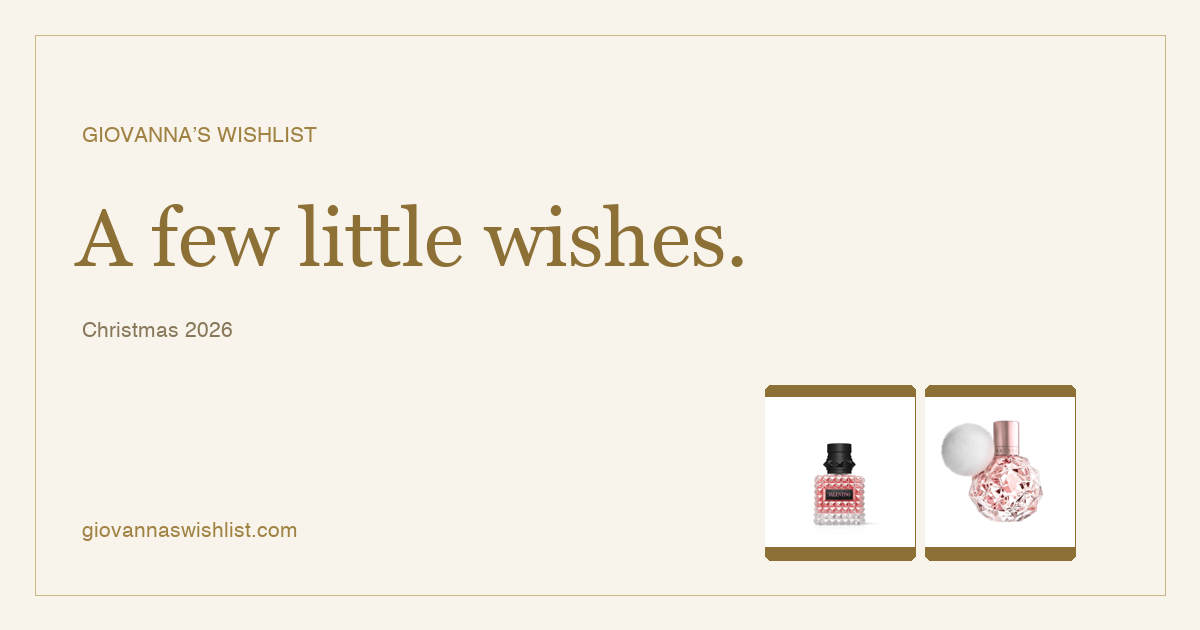
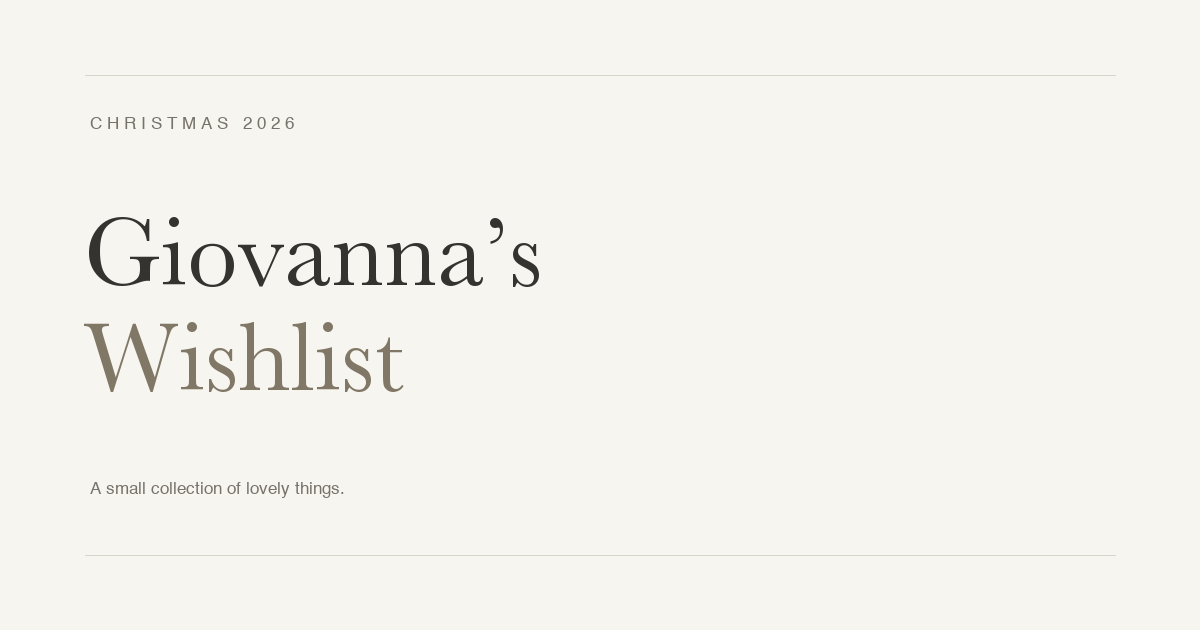
Refine wishlist with understated ivory and stone design

diff --git a/style.css b/style.css
@@ -1,18 +1,1 @@
-*{box-sizing:border-box}html{scroll-behavior:smooth;scroll-padding-top:24px}body{margin:0;background:#10271f;color:#f6eee5;font-family:Arial,Helvetica,sans-serif;-webkit-font-smoothing:antialiased}a{color:inherit}a:focus-visible,button:focus-visible,summary:focus-visible{outline:2px solid #e2c39d;outline-offset:4px}[hidden]{display:none!important}.skip{position:absolute;top:-80px;left:16px;background:#ead7b9;color:#10271f;padding:12px;z-index:99}.skip:focus{top:12px}header{max-width:1280px;margin:auto;padding:23px 5%;display:flex;align-items:center;justify-content:space-between;border-bottom:1px solid #dfc9b328}.wordmark{text-decoration:none;font:italic 32px Georgia,serif}.wordmark span{font-size:12px;color:#d6b795;margin-left:4px}.header-note,.eyebrow,.gift-count{font-size:10px;letter-spacing:2px}.header-note{color:#bac6b9}.nav-link{font-size:12px;text-decoration:none;color:#e2c39d}.hero{text-align:center;padding:50px 20px 45px;position:relative;overflow:hidden;background:radial-gradient(ellipse at 50% 0,#38543b30,transparent 70%)}.eyebrow{color:#d6b795;text-transform:uppercase;line-height:1.7;margin:0 0 16px}h1{font:normal clamp(46px,6vw,74px)/1.04 Georgia,serif;letter-spacing:-2px;margin:0}h1 em{font-weight:400;color:#dfcb99}.intro{font-size:14px;line-height:1.7;color:#c2cbbb;margin:23px 0 0}.hero-link{display:inline-flex;gap:30px;margin-top:22px;font-size:12px;text-decoration:none;border-bottom:1px solid #d6b79570;padding-bottom:11px;color:#e2c39d}.hero-flower{position:absolute;right:12%;top:30%;font:80px Georgia;color:#dfcb9919;transform:rotate(15deg)}#wishlist{max-width:1160px;margin:auto;padding:12px 28px 0}.section-head{display:flex;justify-content:space-between;align-items:end;margin-bottom:25px;border-top:1px solid #dfc9b328;padding-top:26px}.section-head .eyebrow{margin-bottom:7px;font-size:9px}h2{font:30px Georgia,serif;margin:0}.gift-count{color:#c2cbbb;font-size:10px;letter-spacing:1px}.gift-count span{color:#d6b795;margin-left:12px}.cards{display:grid;grid-template-columns:repeat(3,minmax(0,1fr));gap:22px}.card{background:#f5efe6;color:#293b30;border:1px solid #e3d6c8;border-radius:5px;overflow:hidden;display:flex;flex-direction:column}.art{height:265px;position:relative;display:flex;align-items:center;justify-content:center;border-bottom:1px solid #d8cabe;background:#f5efe6;padding:20px}.art img{width:100%;height:100%;object-fit:contain;mix-blend-mode:multiply}.number{position:absolute;top:17px;left:17px;font:12px Georgia;color:#877451}.body{padding:25px 24px;display:flex;flex-direction:column;flex:1}.body .eyebrow{color:#796744;font-size:9px;letter-spacing:1.7px;margin-bottom:10px}h3{font:26px/1.15 Georgia,serif;margin:0 0 10px}.variant{font-size:11px;color:#717663;line-height:1.6;margin:0 0 14px}.description{font-size:12px;line-height:1.8;color:#5e695b;margin:0 0 22px}.pricing{margin-top:auto}.pricing strong{font:26px Georgia,serif;color:#705e3c}.links{margin-top:20px}.links a{display:flex;justify-content:space-between;text-decoration:none;font-size:11px;border:1px solid #94786a70;padding:14px;border-radius:2px;transition:background .2s}.links a:hover{background:#294332;color:#f5efe6}.price-note{font-size:10px;line-height:1.7;color:#afbea9;margin:20px 0 0}footer{text-align:center;padding:36px 20px 28px}footer p{font:15px Georgia,serif;color:#d4dccb}footer>span{font-size:8px;letter-spacing:2px;color:#a9b69e}#empty-state{padding:35px 20px;border:1px solid #dfc9b340;text-align:center;font-size:14px}/* Quiet, integrated filter toolbar. */
-.filters{position:relative;border:1px solid #b8c4af2e;border-radius:10px;background:#183126;margin:0 0 28px;padding:16px 18px;box-shadow:none}
-.category-filters{gap:5px;margin:0 0 15px;display:flex;flex-wrap:wrap}
-.filter-chip{border:0;border-radius:5px;color:#c2cbbb;background:transparent;min-height:38px;padding:10px 14px;font-size:12px;letter-spacing:.1px;transition:background .15s,color .15s}
-.filter-chip:hover{background:#ffffff0b;color:#f0ebdf}
-.filter-chip.selected{background:#eee7d7;color:#294332;border:0;box-shadow:0 1px 3px #0001}
-.budget-row{border-top:1px solid #b8c4af22;padding-top:13px;justify-content:space-between;gap:12px}
-.price-control{display:flex;align-items:center;gap:12px}.price-label{font-size:11px;color:#b8c4af;letter-spacing:.4px}
-.price-menu{position:relative}.price-menu summary{display:flex;align-items:center;justify-content:space-between;gap:28px;min-width:140px;min-height:38px;padding:10px 12px;list-style:none;cursor:pointer;border:1px solid #b8c4af47;border-radius:5px;font-size:12px;color:#eee7d7;background:#10271f55}
-.price-menu summary::-webkit-details-marker{display:none}.price-menu summary:hover{border-color:#d5c4a188}.price-menu summary:focus-visible{outline:2px solid #dfcb99;outline-offset:3px}.price-menu[open] summary svg{transform:rotate(180deg)}
-.price-options{position:absolute;top:calc(100% + 7px);left:0;z-index:20;min-width:180px;padding:6px;border:1px solid #ded7c6;border-radius:7px;background:#f4efe5;box-shadow:0 12px 28px #0004;display:grid;gap:2px}
-.price-options button{font:12px Arial,sans-serif;display:block;width:100%;padding:11px 12px;text-align:left;cursor:pointer;background:transparent;border:0;border-radius:4px;color:#294332;min-height:38px}.price-options button:hover,.price-options button:focus-visible{background:#dfe4d6;outline:none}.price-options button[aria-pressed="true"]{background:#dfe4d6;color:#294332;font-weight:600}
-.filter-meta{display:flex;align-items:center;gap:14px}#filter-count{margin:0;font-size:11px;color:#b8c4af;white-space:nowrap}#reset-filters{min-height:34px;padding:4px 0;font-size:11px;color:#dfcb99;text-decoration:none;border-bottom:1px solid #dfcb9944;border-radius:0}
-@media(max-width:580px){.filters{padding:12px;margin-bottom:20px}.category-filters{gap:4px;margin-bottom:12px}.filter-chip{padding:9px 11px;font-size:11px;min-height:37px}.budget-row{padding-top:11px;gap:8px;flex-wrap:nowrap}.price-control{gap:8px}.price-label{font-size:10px}.price-menu summary{min-width:123px;gap:16px}.filter-meta{gap:9px}#filter-count{flex-basis:auto;margin:0;font-size:10px}}
-
-
-.budget-row{flex-wrap:wrap;gap:16px}.filter-meta{margin-left:auto}.sort-menu summary{min-width:160px}.sort-menu .price-options{min-width:195px}button{font-family:inherit}@media(max-width:800px){.cards{gap:16px}.body{padding:20px 18px}.art{height:220px}h3{font-size:23px}}@media(max-width:640px){header{padding:20px 22px}.header-note{display:none}.hero{padding:36px 20px 32px}h1{font-size:52px}.hero-flower{right:3%;font-size:55px}#wishlist{padding:8px 18px 0}.cards{grid-template-columns:1fr;gap:20px}.card{display:flex}.art{height:260px;padding:24px}.body{padding:24px}.budget-row{gap:12px}.price-control{gap:8px}.filter-meta{width:100%;margin-left:0;justify-content:space-between}.sort-menu summary{min-width:140px}h3{font-size:27px}.section-head{padding-top:22px}.gift-count{font-size:9px}.price-note{font-size:10px}.price-options{max-width:calc(100vw - 56px)}.sort-menu .price-options{left:auto;right:0}}@media(max-width:360px){.price-control{flex-wrap:wrap;gap:5px}.budget-row{align-items:start}.price-menu summary{min-width:120px}.sort-menu summary{min-width:130px}}@media(prefers-reduced-motion:reduce){html{scroll-behavior:auto}*{transition:none!important}}/* Giovanna’s chosen palette: cream and gold. */
-body{background:#f8f4eb;color:#403729}header{border-color:#b99b5b44}.wordmark{color:#8b6e33}.wordmark span,.nav-link,.eyebrow,.hero-link{color:#92743a}.header-note{color:#8c806c}.hero{background:radial-gradient(ellipse at 50% 0,#e9d8af35,transparent 70%)}h1 em{color:#a08243}.intro{color:#807361}.hero-link{border-color:#ac8f5266}.hero-flower{color:#ad8b3f1a}.section-head{border-color:#b99b5b44}.gift-count{color:#8c806c}.gift-count span{color:#a08243}.card{background:#fffdf7;border-color:#d8c9a944;color:#403729}.art{background:#fffdf7;border-color:#b99b5b33}.number{color:#a38c61}.body .eyebrow{color:#99804d}.variant{color:#8e8069}.description{color:#7a705f}.pricing strong{color:#8d7036}.links a{border-color:#b69a624d;color:#725d35}.links a:hover{background:#a08243;color:#fffdf7}.price-note{color:#948873}footer p{color:#88785b}footer>span{color:#a19174}.filters{background:#f0e9da;border-color:#c7b58d55}.filter-chip{color:#89795b}.filter-chip:hover{background:#e8dcc2;color:#66532c}.filter-chip.selected{background:#a08243;color:#fffdf7}.budget-row{border-color:#bba57533}.price-label{color:#8e7c5b}.price-menu summary{color:#6e5c39;border-color:#baa16f55;background:#fffdf780}.price-menu summary:hover{border-color:#a08243}.price-options{background:#fffdf7;border-color:#d9c9a8;box-shadow:0 12px 28px #5e47211c}.price-options button{color:#6e5c39}.price-options button:hover,.price-options button:focus-visible,.price-options button[aria-pressed="true"]{background:#eee4ce;color:#6e5c39}#filter-count{color:#8e7c5b}#reset-filters{color:#8d7036;border-color:#aa8c4d55}#empty-state{border-color:#b99b5b44;color:#807361}.skip{background:#a08243;color:#fffdf7}a:focus-visible,button:focus-visible,summary:focus-visible,.price-menu summary:focus-visible{outline-color:#967839}
+:root{--paper:#f7f5f0;--ink:#35332f;--muted:#77726a;--line:#d9d4ca;--accent:#8b8171;--serif:'Baskerville','Iowan Old Style','Palatino Linotype',Georgia,serif}*{box-sizing:border-box}html{scroll-behavior:smooth;scroll-padding-top:30px}body{margin:0;background:var(--paper);color:var(--ink);font:13px/1.6 'Helvetica Neue',Arial,sans-serif;-webkit-font-smoothing:antialiased}a{color:inherit}button{font:inherit}a:focus-visible,button:focus-visible,summary:focus-visible{outline:2px solid var(--accent);outline-offset:5px}[hidden]{display:none!important}.skip{position:absolute;top:-90px;left:20px;background:var(--ink);color:var(--paper);padding:12px;z-index:100}.skip:focus{top:12px}header{max-width:1440px;margin:auto;display:flex;align-items:center;justify-content:space-between;padding:29px 6%;border-bottom:1px solid var(--line)}.wordmark{font:italic 35px/1 var(--serif);text-decoration:none;border:1px solid #b8b0a0;border-radius:50%;width:45px;height:53px;display:grid;place-items:center}.wordmark span{display:none}.header-note{font-size:9px;letter-spacing:3px;color:var(--muted)}.nav-link{font-size:10px;letter-spacing:1px;text-decoration:none}.hero{text-align:center;padding:75px 24px 66px;position:relative}.eyebrow{font-size:9px;letter-spacing:2.8px;color:var(--muted);text-transform:uppercase;margin:0 0 24px}h1{font:normal clamp(64px,8vw,110px)/.94 var(--serif);letter-spacing:-3.6px;margin:0}h1 em{font-weight:400;color:#817766}.intro{font:17px/1.6 var(--serif);color:var(--muted);margin:27px 0 0}.hero-link{display:inline-flex;gap:36px;align-items:center;margin-top:25px;padding-bottom:9px;border-bottom:1px solid #b8b0a0;text-decoration:none;font-size:9px;letter-spacing:1.7px;text-transform:uppercase}.hero-flower{display:none}#wishlist{max-width:1260px;margin:auto;padding:0 6%}.section-head{display:flex;justify-content:space-between;align-items:end;border-top:1px solid var(--line);padding-top:28px;margin-bottom:26px}.section-head .eyebrow{font-size:8px;letter-spacing:2px;margin-bottom:6px}h2{font:normal 32px/1.2 var(--serif);margin:0}.gift-count{font-size:9px;color:var(--muted);letter-spacing:1px}.gift-count span{display:none}.filters{margin-bottom:30px;padding-bottom:20px;border-bottom:1px solid var(--line)}.category-filters{display:flex;gap:25px;align-items:center;margin-bottom:18px}.filter-chip{background:none;border:0;border-bottom:1px solid transparent;color:var(--muted);padding:8px 0;min-height:40px;font-size:10px;letter-spacing:1px;cursor:pointer}.filter-chip.selected{color:var(--ink);border-bottom-color:var(--ink)}.filter-chip:hover{color:var(--ink)}.budget-row{display:flex;align-items:center;flex-wrap:wrap;gap:22px}.price-control{display:flex;align-items:center;gap:10px}.price-label{font-size:9px;color:var(--muted);letter-spacing:.6px}.price-menu{position:relative}.price-menu summary{list-style:none;display:flex;justify-content:space-between;align-items:center;gap:24px;min-height:38px;min-width:125px;font-size:10px;cursor:pointer;padding:8px 0;border-bottom:1px solid var(--line)}.price-menu summary::-webkit-details-marker{display:none}.price-menu[open] summary svg{transform:rotate(180deg)}.sort-menu summary{min-width:154px}.price-options{position:absolute;top:calc(100% + 7px);left:0;z-index:20;min-width:185px;padding:6px;background:#fdfbf7;border:1px solid var(--line);box-shadow:0 8px 22px #35332f0c;display:grid}.sort-menu .price-options{min-width:195px}.price-options button{background:none;border:0;text-align:left;font-size:11px;color:var(--ink);padding:11px;min-height:40px;cursor:pointer}.price-options button:hover,.price-options button:focus-visible,.price-options button[aria-pressed=true]{background:#ece8e0}.filter-meta{display:flex;gap:16px;align-items:center;margin-left:auto}#filter-count{color:var(--muted);font-size:9px}#reset-filters{border:0;background:none;padding:9px 0;border-bottom:1px solid var(--line);font-size:10px;color:var(--ink);cursor:pointer}.cards{display:grid;grid-template-columns:repeat(3,minmax(0,1fr));gap:32px}.card{display:flex;flex-direction:column;min-width:0}.art{position:relative;display:flex;align-items:center;justify-content:center;height:290px;background:#eeebe5;padding:30px}.art img{width:100%;height:100%;object-fit:contain;mix-blend-mode:multiply}.number{position:absolute;left:15px;top:13px;color:#867f74;font:italic 12px var(--serif)}.body{padding:25px 0 0;display:flex;flex-direction:column;flex:1}.body .eyebrow{font-size:8px;letter-spacing:2px;margin:0 0 11px;color:var(--muted)}h3{font:normal 28px/1.16 var(--serif);letter-spacing:-.4px;margin:0 0 10px}.variant{font-size:10px;color:var(--muted);margin:0 0 14px;line-height:1.8}.description{font-size:11px;color:#716b62;line-height:1.9;margin:0 0 22px;max-width:290px}.pricing{margin-top:auto}.pricing strong{font:normal 23px var(--serif);color:#565046}.links{margin-top:18px}.links a{border-top:1px solid var(--line);border-bottom:1px solid var(--line);display:flex;justify-content:space-between;padding:14px 0;text-decoration:none;font-size:9px;letter-spacing:1px;text-transform:uppercase;transition:color .2s}.links a:hover{color:#8b8171}.price-note{font-size:9px;color:#898278;line-height:1.8;margin:28px 0 0}#empty-state{padding:40px 20px;text-align:center;color:var(--muted);border:1px solid var(--line)}footer{max-width:1110px;margin:55px auto 0;padding:27px 20px 35px;border-top:1px solid var(--line);text-align:center}footer p{font:italic 18px var(--serif);margin:0 0 12px}footer>span{font-size:8px;letter-spacing:2px;color:var(--muted)}@media(min-width:1450px){.hero{padding-top:90px;padding-bottom:80px}}@media(max-width:850px){.cards{gap:22px}.art{height:230px;padding:22px}h3{font-size:25px}.budget-row{gap:16px}}@media(max-width:640px){header{padding:22px 24px}.header-note{display:none}.nav-link{font-size:9px}.wordmark{font-size:29px;width:36px;height:43px}.hero{padding:52px 24px 45px}h1{font-size:68px;letter-spacing:-2.6px}.hero>.eyebrow{font-size:8px;margin-bottom:22px}.intro{font-size:16px;margin-top:23px}.hero-link{margin-top:19px}#wishlist{padding:0 24px}.section-head{padding-top:23px;margin-bottom:20px}h2{font-size:29px}.gift-count{font-size:8px}.filters{padding-bottom:19px;margin-bottom:24px}.category-filters{margin-bottom:9px}.budget-row{gap:10px 18px}.price-control{gap:8px}.price-menu summary{min-width:109px;gap:17px}.sort-menu summary{min-width:137px}.price-label{font-size:8px}.filter-meta{width:100%;margin-left:0;justify-content:space-between}.sort-menu .price-options{left:auto;right:0}.cards{grid-template-columns:1fr;gap:38px}.art{height:310px;padding:34px}.body{padding-top:22px}h3{font-size:30px}.description{max-width:none;font-size:12px;margin-bottom:20px}.variant{font-size:11px}.body .eyebrow{font-size:9px}.pricing strong{font-size:25px}.links a{font-size:10px;padding:16px 0}.price-note{margin-top:26px;font-size:9px}footer{margin:38px 24px 0;padding-top:25px}}@media(max-width:360px){#wishlist{padding:0 18px}.budget-row{gap:12px}.price-control{flex-direction:column;align-items:start;gap:0}.price-menu summary{min-width:118px}.sort-menu summary{min-width:144px}.art{height:280px}h1{font-size:60px}}@media(prefers-reduced-motion:reduce){html{scroll-behavior:auto}*{transition:none!important}}

diff --git a/index.html b/index.html
@@ -1,4 +1,4 @@
-<!doctype html><html lang="en"><head><meta charset="utf-8"><meta name="viewport" content="width=device-width,initial-scale=1"><meta name="theme-color" content="#f8f4eb"><meta name="description" content="Giovanna’s Wishlist 2026. Browse gift ideas, filter by category or budget, and shop each item directly."><title>Giovanna’s Wishlist · 2026</title><link rel="icon" href="favicon.svg"><link rel="stylesheet" href="style.css?v=cream-gold"><link rel="canonical" href="https://giovannaswishlist.com/"><meta name="robots" content="index,follow"><meta property="og:type" content="website"><meta property="og:locale" content="en_US"><meta property="og:site_name" content="Giovanna’s Wishlist"><meta property="og:title" content="Giovanna’s Wishlist 2026"><meta property="og:description" content="Giovanna’s Wishlist 2026. Browse gift ideas, filter by category or budget, and shop each item directly."><meta property="og:url" content="https://giovannaswishlist.com/"><meta property="og:image" content="https://giovannaswishlist.com/social-preview.png"><meta property="og:image:width" content="1200"><meta property="og:image:height" content="630"><meta property="og:image:alt" content="Giovanna’s Wishlist 2026, on a cream background with gold lettering"><meta name="twitter:card" content="summary_large_image"><meta name="twitter:title" content="Giovanna’s Wishlist 2026"><meta name="twitter:description" content="Giovanna’s Wishlist 2026. Browse gift ideas, filter by category or budget, and shop each item directly."><meta name="twitter:image" content="https://giovannaswishlist.com/social-preview.png"></head><body><a class="skip" href="#wishlist">Skip to gifts</a><header><a class="wordmark" href="#" aria-label="Giovanna’s Wishlist home">G<span>✦</span></a><span class="header-note">A FEW LITTLE WISHES</span><a class="nav-link" href="#wishlist">Explore the list ↘</a></header><main><section class="hero"><p class="eyebrow">CHRISTMAS 2026</p><h1>Giovanna’s<br><em>Wishlist</em></h1><p class="intro">A few gift ideas, all in one little place.</p><a class="hero-link" href="#wishlist">View the list <span aria-hidden="true">↓</span></a><span class="hero-flower" aria-hidden="true">✳</span></section><section id="wishlist" aria-labelledby="list-title"><div class="section-head"><div><p class="eyebrow">THE LIST</p><h2 id="list-title">Gift ideas</h2></div><span class="gift-count">3 little wishes <span aria-hidden="true">✦</span></span></div><div class="filters" aria-label="Filter gift ideas"><div class="category-filters" role="group" aria-label="Gift category"><button type="button" class="filter-chip selected" data-filter="All" aria-pressed="true">All gifts</button><button type="button" class="filter-chip" data-filter="Fragrance" aria-pressed="false">Fragrance</button></div><div class="budget-row"><div class="price-control"><span class="price-label">Budget</span><details class="price-menu"><summary><span id="price-label">Any price</span><svg width="12" height="12" viewBox="0 0 12 12" aria-hidden="true"><path d="m3 4.5 3 3 3-3" fill="none" stroke="currentColor" stroke-width="1.3"/></svg></summary><div class="price-options" role="group" aria-label="Price range"><button type="button" data-price="all" aria-pressed="true">Any price</button><button type="button" data-price="0:50" aria-pressed="false">Under $50</button><button type="button" data-price="50:100" aria-pressed="false">$50–$100</button><button type="button" data-price="100:200" aria-pressed="false">$100–$200</button><button type="button" data-price="200:500" aria-pressed="false">$200–$500</button><button type="button" data-price="500:Infinity" aria-pressed="false">$500+</button></div></details></div><div class="price-control sort-control"><span class="price-label">Sort</span><details class="price-menu sort-menu"><summary><span id="sort-label">List order</span><svg width="12" height="12" viewBox="0 0 12 12" aria-hidden="true"><path d="m3 4.5 3 3 3-3" fill="none" stroke="currentColor" stroke-width="1.3"/></svg></summary><div class="price-options" role="group" aria-label="Sort gifts"><button type="button" data-sort="original" aria-pressed="true">List order</button><button type="button" data-sort="low" aria-pressed="false">Price: low to high</button><button type="button" data-sort="high" aria-pressed="false">Price: high to low</button><button type="button" data-sort="name" aria-pressed="false">Name: A–Z</button></div></details></div><div class="filter-meta"><span id="filter-count" role="status" aria-live="polite">3 gifts shown</span><button type="button" id="reset-filters" hidden>Clear</button></div></div></div><p id="empty-state" hidden>No gifts match these filters. Try another category or price.</p><div class="cards" id="gift-grid"><article class="card" data-category="Fragrance" data-prices="110"><div class="art"><span class="number">01</span><img src="assets/valentino.jpg" alt="Valentino Donna Born in Roma perfume bottle and packaging" width="600" height="600"></div><div class="body"><p class="eyebrow">VALENTINO</p><h3>Donna Born in Roma</h3><p class="variant">Eau de parfum · 30 ml · 1 fl oz</p><p class="description">Jasmine and warm vanilla in the original studded pink bottle.</p><div class="pricing"><strong>$110.00</strong></div><div class="links"><a href="https://www.amazon.com/dp/B07YCMSWRT" target="_blank" rel="noopener noreferrer">View on Amazon <span aria-hidden="true">↗</span></a></div></div></article><article class="card" data-category="Fragrance" data-prices="75"><div class="art"><span class="number">02</span><img src="assets/ari.jpg" alt="Ariana Grande ARI perfume bottle and packaging" width="600" height="600"></div><div class="body"><p class="eyebrow">ARIANA GRANDE</p><h3>ARI</h3><p class="variant">Eau de parfum · 100 ml · 3.4 fl oz</p><p class="description">A fruity floral perfume with pear, raspberry, and a soft marshmallow finish.</p><div class="pricing"><strong>$75.00</strong></div><div class="links"><a href="https://www.amazon.com/dp/B07PG3QLV3" target="_blank" rel="noopener noreferrer">View on Amazon <span aria-hidden="true">↗</span></a></div></div></article><article class="card" data-category="Fragrance" data-prices="194"><div class="art"><span class="number">03</span><img src="assets/goodgirl.jpg" alt="Carolina Herrera Good Girl perfume bottle and packaging" width="600" height="600"></div><div class="body"><p class="eyebrow">CAROLINA HERRERA</p><h3>Good Girl</h3><p class="variant">Eau de parfum · 150 ml · 5.1 fl oz</p><p class="description">The original eau de parfum in the deep blue stiletto bottle, with jasmine and tonka bean.</p><div class="pricing"><strong>$194.00</strong></div><div class="links"><a href="https://www.amazon.com/dp/B09S9YP7Q5" target="_blank" rel="noopener noreferrer">View on Amazon <span aria-hidden="true">↗</span></a></div></div></article></div><p class="price-note">Prices checked October 31, 2026 for a one-time purchase. Prices and availability may change.</p></section></main><footer><p>Giovanna’s Wishlist · 2026</p><span>WITH LOVE & A LITTLE WISHFUL THINKING</span></footer><script>
+<!doctype html><html lang="en"><head><meta charset="utf-8"><meta name="viewport" content="width=device-width,initial-scale=1"><meta name="theme-color" content="#f7f5f0"><meta name="description" content="Giovanna’s Wishlist 2026. Browse gift ideas, filter by category or budget, and shop each item directly."><title>Giovanna’s Wishlist · 2026</title><link rel="icon" href="favicon.svg"><link rel="stylesheet" href="style.css?v=atelier-1"><link rel="canonical" href="https://giovannaswishlist.com/"><meta name="robots" content="index,follow"><meta property="og:type" content="website"><meta property="og:locale" content="en_US"><meta property="og:site_name" content="Giovanna’s Wishlist"><meta property="og:title" content="Giovanna’s Wishlist 2026"><meta property="og:description" content="Giovanna’s Wishlist 2026. Browse gift ideas, filter by category or budget, and shop each item directly."><meta property="og:url" content="https://giovannaswishlist.com/"><meta property="og:image" content="https://giovannaswishlist.com/social-preview.png"><meta property="og:image:width" content="1200"><meta property="og:image:height" content="630"><meta property="og:image:alt" content="Giovanna’s Wishlist 2026, on a warm ivory background with elegant taupe lettering"><meta name="twitter:card" content="summary_large_image"><meta name="twitter:title" content="Giovanna’s Wishlist 2026"><meta name="twitter:description" content="Giovanna’s Wishlist 2026. Browse gift ideas, filter by category or budget, and shop each item directly."><meta name="twitter:image" content="https://giovannaswishlist.com/social-preview.png"></head><body><a class="skip" href="#wishlist">Skip to gifts</a><header><a class="wordmark" href="#" aria-label="Giovanna’s Wishlist home">G<span>✦</span></a><span class="header-note">GIOVANNA · 2026</span><a class="nav-link" href="#wishlist">Explore the list ↘</a></header><main><section class="hero"><p class="eyebrow">CHRISTMAS 2026</p><h1>Giovanna’s<br><em>Wishlist</em></h1><p class="intro">A small collection of lovely things.</p><a class="hero-link" href="#wishlist">View the list <span aria-hidden="true">↓</span></a><span class="hero-flower" aria-hidden="true">✳</span></section><section id="wishlist" aria-labelledby="list-title"><div class="section-head"><div><p class="eyebrow">THE LIST</p><h2 id="list-title">Gift ideas</h2></div><span class="gift-count">3 gift ideas <span aria-hidden="true">✦</span></span></div><div class="filters" aria-label="Filter gift ideas"><div class="category-filters" role="group" aria-label="Gift category"><button type="button" class="filter-chip selected" data-filter="All" aria-pressed="true">All gifts</button><button type="button" class="filter-chip" data-filter="Fragrance" aria-pressed="false">Fragrance</button></div><div class="budget-row"><div class="price-control"><span class="price-label">Budget</span><details class="price-menu"><summary><span id="price-label">Any price</span><svg width="12" height="12" viewBox="0 0 12 12" aria-hidden="true"><path d="m3 4.5 3 3 3-3" fill="none" stroke="currentColor" stroke-width="1.3"/></svg></summary><div class="price-options" role="group" aria-label="Price range"><button type="button" data-price="all" aria-pressed="true">Any price</button><button type="button" data-price="0:50" aria-pressed="false">Under $50</button><button type="button" data-price="50:100" aria-pressed="false">$50–$100</button><button type="button" data-price="100:200" aria-pressed="false">$100–$200</button><button type="button" data-price="200:500" aria-pressed="false">$200–$500</button><button type="button" data-price="500:Infinity" aria-pressed="false">$500+</button></div></details></div><div class="price-control sort-control"><span class="price-label">Sort</span><details class="price-menu sort-menu"><summary><span id="sort-label">List order</span><svg width="12" height="12" viewBox="0 0 12 12" aria-hidden="true"><path d="m3 4.5 3 3 3-3" fill="none" stroke="currentColor" stroke-width="1.3"/></svg></summary><div class="price-options" role="group" aria-label="Sort gifts"><button type="button" data-sort="original" aria-pressed="true">List order</button><button type="button" data-sort="low" aria-pressed="false">Price: low to high</button><button type="button" data-sort="high" aria-pressed="false">Price: high to low</button><button type="button" data-sort="name" aria-pressed="false">Name: A–Z</button></div></details></div><div class="filter-meta"><span id="filter-count" role="status" aria-live="polite">3 gifts shown</span><button type="button" id="reset-filters" hidden>Clear</button></div></div></div><p id="empty-state" hidden>No gifts match these filters. Try another category or price.</p><div class="cards" id="gift-grid"><article class="card" data-category="Fragrance" data-prices="110"><div class="art"><span class="number">01</span><img src="assets/valentino.jpg" alt="Valentino Donna Born in Roma perfume bottle and packaging" width="600" height="600"></div><div class="body"><p class="eyebrow">VALENTINO</p><h3>Donna Born in Roma</h3><p class="variant">Eau de parfum · 30 ml · 1 fl oz</p><p class="description">Jasmine and warm vanilla in the original studded pink bottle.</p><div class="pricing"><strong>$110.00</strong></div><div class="links"><a href="https://www.amazon.com/dp/B07YCMSWRT" target="_blank" rel="noopener noreferrer">View on Amazon <span aria-hidden="true">↗</span></a></div></div></article><article class="card" data-category="Fragrance" data-prices="75"><div class="art"><span class="number">02</span><img src="assets/ari.jpg" alt="Ariana Grande ARI perfume bottle and packaging" width="600" height="600"></div><div class="body"><p class="eyebrow">ARIANA GRANDE</p><h3>ARI</h3><p class="variant">Eau de parfum · 100 ml · 3.4 fl oz</p><p class="description">A fruity floral perfume with pear, raspberry, and a soft marshmallow finish.</p><div class="pricing"><strong>$75.00</strong></div><div class="links"><a href="https://www.amazon.com/dp/B07PG3QLV3" target="_blank" rel="noopener noreferrer">View on Amazon <span aria-hidden="true">↗</span></a></div></div></article><article class="card" data-category="Fragrance" data-prices="194"><div class="art"><span class="number">03</span><img src="assets/goodgirl.jpg" alt="Carolina Herrera Good Girl perfume bottle and packaging" width="600" height="600"></div><div class="body"><p class="eyebrow">CAROLINA HERRERA</p><h3>Good Girl</h3><p class="variant">Eau de parfum · 150 ml · 5.1 fl oz</p><p class="description">The original eau de parfum in the deep blue stiletto bottle, with jasmine and tonka bean.</p><div class="pricing"><strong>$194.00</strong></div><div class="links"><a href="https://www.amazon.com/dp/B09S9YP7Q5" target="_blank" rel="noopener noreferrer">View on Amazon <span aria-hidden="true">↗</span></a></div></div></article></div><p class="price-note">Prices checked October 31, 2026 for a one-time purchase. Prices and availability may change.</p></section></main><footer><p>Giovanna’s Wishlist · 2026</p><span>CHRISTMAS · 2026</span></footer><script>
 (()=>{
  const cards=[...document.querySelectorAll('.card[data-category]')];
  const chips=[...document.querySelectorAll('[data-filter]')];
